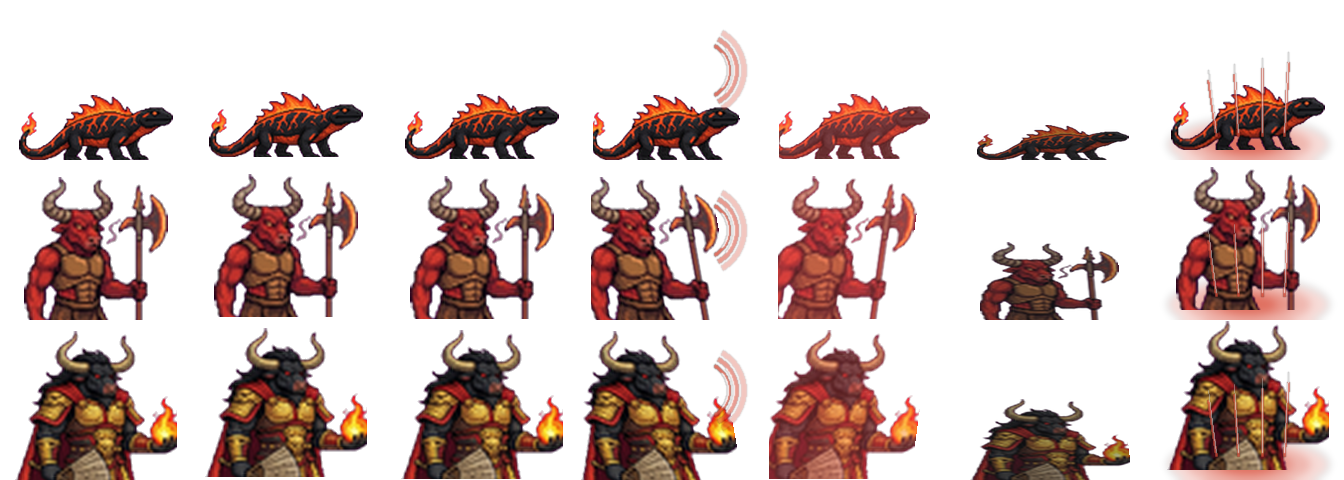
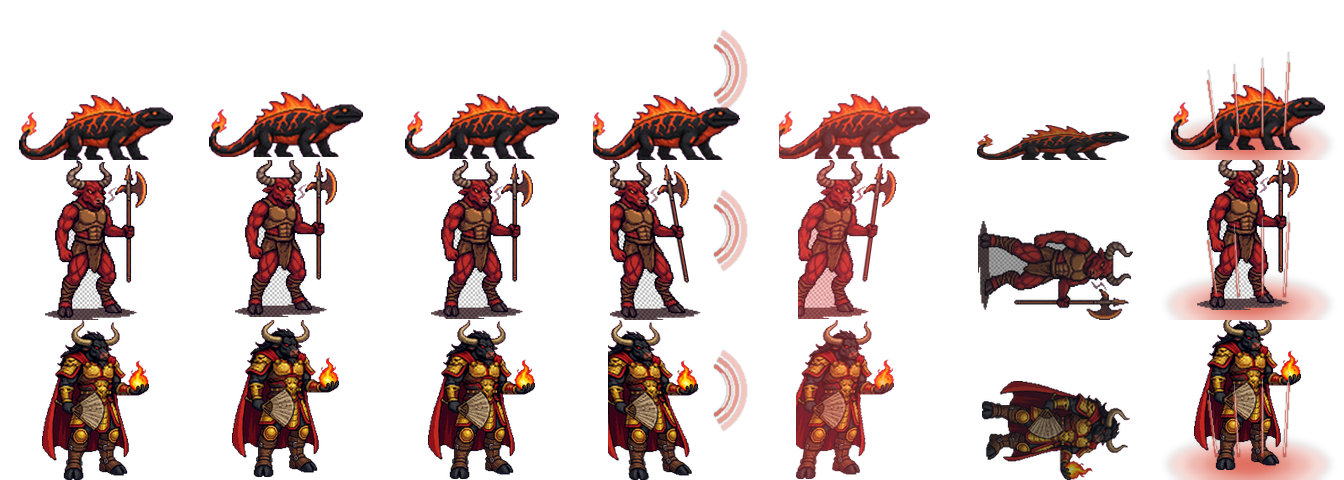
Give L4 牛火卒 and 鐵扇牛魔 proper legs (AI-extended canonicals)
Source-art problem: every cell of the original L4 mob1/boss rows was
drawn waist-up — the AI generation cropped the bull characters at
the loincloth. The bbox bottom landed on the loincloth, so engine
bottom-anchoring put the waist on the bridge and the missing legs
read in-game as "half-body sunk into ground".

Fix: used Nano Banana (Gemini-3-pro-image-preview) edit_image to
extend each canonical idle downward with anatomically correct legs
and feet, matching the existing armor and skin palette. Trimmed
the checker-pattern background, fit to 192x160, and replaced the
canonical sprites at assets/enemies/_canonical/L4-r1.png and L4-r2.png.

Regenerator change: tools/regenerate_l3_l5_atlas.py now reuses an
existing canonical PNG if present, instead of always re-extracting
from the original atlas. This keeps hand-edited / AI-extended
canonicals from being clobbered on subsequent runs.

L3 and L5 canonicals weren't touched — those characters had legs in
the originals and render fine post-c5bd6a1/36b8905.

diff --git a/tools/regenerate_l3_l5_atlas.py b/tools/regenerate_l3_l5_atlas.py
@@ -383,10 +383,17 @@ def regenerate_atlas(level_tag: str, src_filename: str, level_color: tuple[int, 
     out = Image.new("RGBA", (CELL_W * COLS, CELL_H * ROWS), (0, 0, 0, 0))
 
     for row in range(ROWS):
-        canonical = make_canonical(level_tag, src, row)
-        # Save canonical for inspection.
-        CANONICAL.mkdir(exist_ok=True, parents=True)
-        canonical.save(CANONICAL / f"{level_tag}-r{row}.png")
+        # Reuse hand-tuned canonical if present (e.g. AI-extended full-body sprites);
+        # only re-extract from the original atlas otherwise.
+        cached = CANONICAL / f"{level_tag}-r{row}.png"
+        if cached.exists():
+            canonical = trim_bbox(Image.open(cached).convert("RGBA"))
+            print(f"  {level_tag} row{row}: using cached canonical {cached.name} "
+                  f"({canonical.size[0]}x{canonical.size[1]})")
+        else:
+            canonical = make_canonical(level_tag, src, row)
+            CANONICAL.mkdir(exist_ok=True, parents=True)
+            canonical.save(cached)
         cells = synthesize_row(canonical, level_color)
         for c, cell in enumerate(cells):
             out.paste(cell, (c * CELL_W, row * CELL_H))